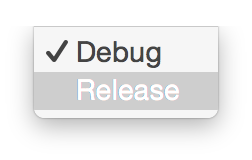
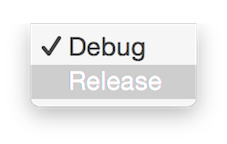
reduced image sizes

diff --git a/src/com/bytezone/dm3270/structuredfields/ReadPartitionSF.java b/src/com/bytezone/dm3270/structuredfields/ReadPartitionSF.java
@@ -79,7 +79,7 @@ public class ReadPartitionSF extends StructuredField
         break;
 
       case Command.READ_BUFFER_F2:            // NB 0x02 would conflict with RPQ above
-        reply = screen.readBuffer ();
+        reply = screen.readBuffer ();         // AID command
         break;
 
       case Command.READ_MODIFIED_F6:

diff --git a/src/com/bytezone/dm3270/commands/EraseAllUnprotectedCommand.java b/src/com/bytezone/dm3270/commands/EraseAllUnprotectedCommand.java
@@ -14,6 +14,7 @@ public class EraseAllUnprotectedCommand extends Command
   public void process ()
   {
     screen.eraseAllUnprotected ();
+    screen.setAID (AIDCommand.NO_AID_SPECIFIED);      // also reset keyboard
   }
 
   @Override
